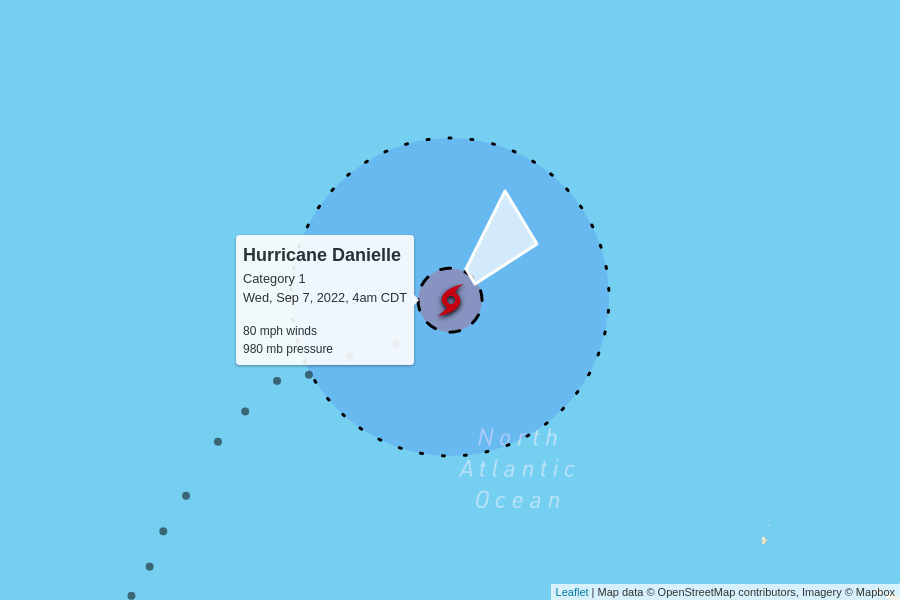
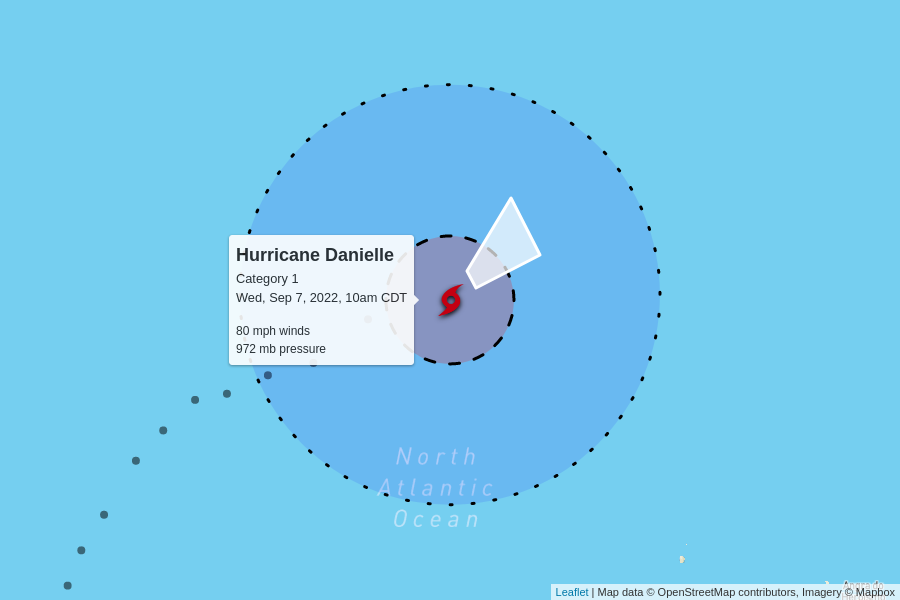
automatic update

diff --git a/docs/index.html b/docs/index.html
@@ -99,8 +99,52 @@
       <tr>
         <td colspan="6" class="storm category-1" >
           <h2>
+            Hurricane Danielle - Category 1
+            <p class="updated">last updated <span data-time>2022-09-07T15:00:00.000Z</span></p>
+          </h2>
+        </td>
+      </tr>
+      
+      <tr>
+        <th class="spacer"></th>
+        <th>wind speed</th>
+        <th>central pressure</th>
+        <th>movement</th>
+        <th>data (CSV)</th>
+        <th>National Hurricane Center</th>
+      </tr>
+      <tr>
+        <td class="spacer"></td>
+        <td>80 mph</td>
+        <td>972 mb</td>
+        <td>
+          16 mph to the northeast
+          <br/>
+          <span style="display: inline-block; font-size: 1.5em; transform: rotate(55deg);">↑</span>
+        </td>
+        <td><a href="https://raw.githubusercontent.com/mgwalker/atlantic-hurricanes/main/data/csv/AL052022.csv">AL052022.csv</a></td>
+        <td><a href="https://www.nhc.noaa.gov/archive/2022/DANIELLE.shtml?">NHC advisories</a></td>
+      </tr>
+      <tr id="storm_AL052022" >
+        <td class="spacer">
+        <td colspan="5">
+          <figure>
+            <img src="AL052022.png">
+            <figcaption>
+              Map data &copy; <a href="https://www.openstreetmap.org/copyright">OpenStreetMap</a> contributors,
+              Imagery &copy; <a href="https://www.mapbox.com/">Mapbox</a> |
+              <a href="https://www.mapbox.com/map-feedback/" target="_blank">Improve this map</a>
+            </figcaption>
+          </figure>
+        </td>
+      </tr>
+      
+
+      <tr>
+        <td colspan="6" class="storm category-1" >
+          <h2>
             Hurricane Earl - Category 1
-            <p class="updated">last updated <span data-time>2022-09-07T12:00:00.000Z</span></p>
+            <p class="updated">last updated <span data-time>2022-09-07T15:00:00.000Z</span></p>
           </h2>
         </td>
       </tr>
@@ -118,9 +162,9 @@
         <td>85 mph</td>
         <td>978 mb</td>
         <td>
-          6 mph to the north
+          8 mph to the north
           <br/>
-          <span style="display: inline-block; font-size: 1.5em; transform: rotate(360deg);">↑</span>
+          <span style="display: inline-block; font-size: 1.5em; transform: rotate(5deg);">↑</span>
         </td>
         <td><a href="https://raw.githubusercontent.com/mgwalker/atlantic-hurricanes/main/data/csv/AL062022.csv">AL062022.csv</a></td>
         <td><a href="https://www.nhc.noaa.gov/archive/2022/EARL.shtml?">NHC advisories</a></td>
@@ -130,50 +174,6 @@
         <td colspan="5">
           <figure>
             <img src="AL062022.png">
-            <figcaption>
-              Map data &copy; <a href="https://www.openstreetmap.org/copyright">OpenStreetMap</a> contributors,
-              Imagery &copy; <a href="https://www.mapbox.com/">Mapbox</a> |
-              <a href="https://www.mapbox.com/map-feedback/" target="_blank">Improve this map</a>
-            </figcaption>
-          </figure>
-        </td>
-      </tr>
-      
-
-      <tr>
-        <td colspan="6" class="storm category-1" >
-          <h2>
-            Hurricane Danielle - Category 1
-            <p class="updated">last updated <span data-time>2022-09-07T09:00:00.000Z</span></p>
-          </h2>
-        </td>
-      </tr>
-      
-      <tr>
-        <th class="spacer"></th>
-        <th>wind speed</th>
-        <th>central pressure</th>
-        <th>movement</th>
-        <th>data (CSV)</th>
-        <th>National Hurricane Center</th>
-      </tr>
-      <tr>
-        <td class="spacer"></td>
-        <td>80 mph</td>
-        <td>980 mb</td>
-        <td>
-          14 mph to the northeast
-          <br/>
-          <span style="display: inline-block; font-size: 1.5em; transform: rotate(50deg);">↑</span>
-        </td>
-        <td><a href="https://raw.githubusercontent.com/mgwalker/atlantic-hurricanes/main/data/csv/AL052022.csv">AL052022.csv</a></td>
-        <td><a href="https://www.nhc.noaa.gov/archive/2022/DANIELLE.shtml?">NHC advisories</a></td>
-      </tr>
-      <tr id="storm_AL052022" >
-        <td class="spacer">
-        <td colspan="5">
-          <figure>
-            <img src="AL052022.png">
             <figcaption>
               Map data &copy; <a href="https://www.openstreetmap.org/copyright">OpenStreetMap</a> contributors,
               Imagery &copy; <a href="https://www.mapbox.com/">Mapbox</a> |
